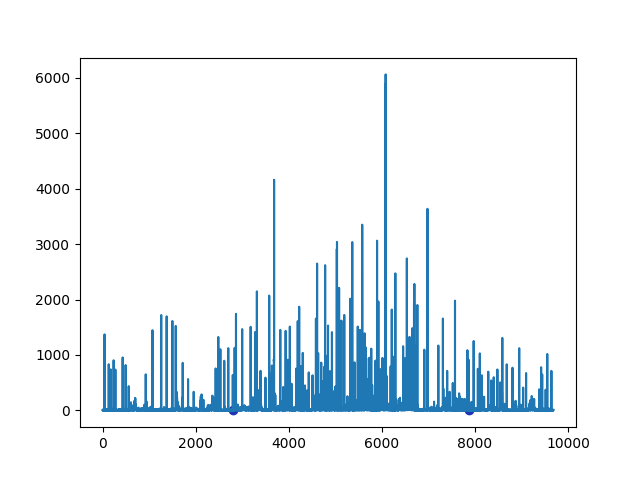
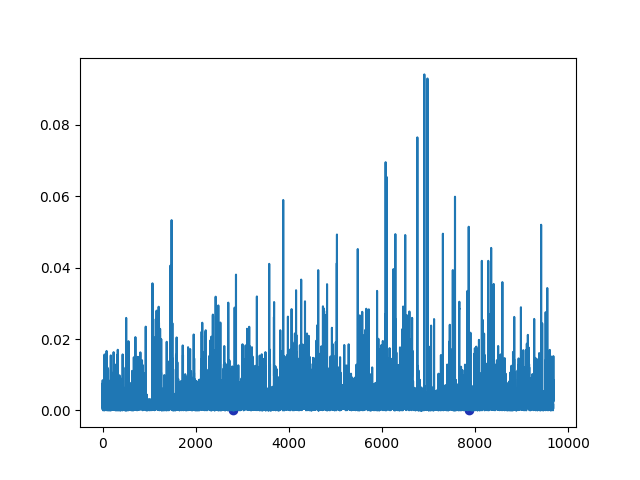
^^

diff --git a/look_up_all_f.py b/look_up_all_f.py
@@ -1,0 +1,103 @@
+import cv2
+import numpy as np
+import matplotlib.pyplot as plt
+from skimage.metrics import peak_signal_noise_ratio, structural_similarity
+
+
+def get_segmentation(diff_features, index, thres):
+    results = []
+    for i in range(len(diff_features)):
+        if diff_features[i, index] > thres:
+            results.append(i + 1)
+    results = np.array(results)
+    return results
+
+
+def merge_small_seg(segments, thres=15):
+    new = []
+    i, j = 0, 0
+    while i < len(segments):
+        f = segments[i][0]
+        s = segments[i][1]
+        if s - f < thres:
+            if i == 0:
+                s = segments[i + 1][1]
+                i += 1
+            elif i == len(segments) - 1:
+                new[j - 1][1] = segments[i][1]
+            else:
+                new[j - 1][1] = segments[i + 1][1]
+                i += 1
+        else:
+            new.append([f, s])
+            j += 1
+        i += 1
+    return new
+
+
+def merge_gap_between_seg(segments, thres=15):
+    i, j = 0, 0
+    while i < len(segments) - 1:
+        f = segments[i][1]
+        s = segments[i + 1][0]
+        if s - f < thres:
+            segments[i][1] = segments[i + 1][1]
+            segments = np.delete(segments, i + 1, 0)
+            i -= 1
+        i += 1
+    return segments
+
+
+gt = {"test_5": [2800, 7870], "test_6": [2776, 8320], "Video_1": [939, 5438]}
+video_name = "test_6"
+with open("features.npy", "rb") as f:
+    features = np.load(f, allow_pickle=True)
+
+total_imgs = len(features)
+print(features.shape)
+diff_features = ((features[: total_imgs - 1, :] - features[1:, :]) ** 2) ** 0.5
+total_diff_features = len(diff_features)
+
+
+# diff
+print(diff_features.shape)
+total_diff_features = len(diff_features)
+for i in range(len(diff_features[0])):
+    upper = total_diff_features - 1
+    x = np.arange(0, upper, upper / total_diff_features)
+    plt.plot(x, diff_features[:, i])
+    plt.scatter(gt[video_name][0], 0, c="#1f33b4")
+    plt.scatter(gt[video_name][1], 0, c="#1f33b4")
+    plt.savefig(f"features/{video_name}_{i}_diff.png")
+    plt.clf()
+
+# origin
+print(features.shape)
+for i in range(len(features[0])):
+    x = np.arange(total_imgs)
+    plt.plot(x, features[:, i])
+    plt.scatter(gt[video_name][0], 0, c="#1f33b4")
+    plt.scatter(gt[video_name][1], 0, c="#1f33b4")
+    plt.savefig(f"features/{video_name}_{i}.png")
+    plt.clf()
+
+
+new = get_segmentation(diff_features, 0, 45)
+print(new)
+assert len(new) % 2 == 0
+new = new.reshape((len(new) // 2, 2))
+new = merge_small_seg(new)
+new = merge_gap_between_seg(new)
+print(new)
+
+upper = total_diff_features - 1
+x = np.arange(upper)
+y = np.zeros(total_diff_features - 1)
+for i in range(len(new)):
+    y[new[i][0] : new[i][1]] = 50
+
+plt.plot(x, y)
+plt.scatter(gt[video_name][0], 0, c="#1f33b4")
+plt.scatter(gt[video_name][1], 0, c="#1f33b4")
+plt.savefig(f"features/{video_name}_res.png")
+plt.clf()

diff --git a/extract_features.py b/extract_features.py
@@ -1,0 +1,91 @@
+import cv2
+import torch
+import numpy as np
+import matplotlib.pyplot as plt
+from skimage.metrics import peak_signal_noise_ratio, structural_similarity
+
+from torch import nn
+from torchvision.utils import save_image
+
+
+def cal_mean_std(img):
+    mean, std = cv2.meanStdDev(img)
+    std = np.mean(std)
+    mean = np.mean(mean)
+    return mean, std
+
+
+def cal_high_freq(img):
+    assert len(img.shape) == 2 "Expect gray scale image"
+    h, w = img.shape
+    tensor_img = torch.Tensor(img)
+    tensor_img = tensor_img.view(1, 1, h, w)
+    tensor_max_img = max_pool(tensor_img)
+    tensor_avg_img = avg_pool(tensor_img)
+    diff = abs(tensor_avg_img - tensor_max_img)
+    diff = (diff - torch.min(diff)) / torch.max(diff)
+    max_avg_diff_img = diff.numpy()
+    return max_avg_diff_img
+
+
+def normalized_image(img):
+    for i in range(3):
+        img = (img - normalized_mean[i]) / normalized_std[i]
+    return img
+
+
+total = {"test_5": 9693, "test_6": 10974, "Video_1": 10250}
+
+normalized_std = np.array([0.229, 0.224, 0.225])
+normalized_mean = np.array([0.485, 0.456, 0.406])
+gamma = 1.5
+max_pool = nn.MaxPool2d((2, 2))
+avg_pool = nn.AvgPool2d((2, 2))
+
+count = 0
+features = []
+video_name = "test_6"
+cap = cv2.VideoCapture(f"videos/{video_name}.avi")
+while True:
+    res, img = cap.read()
+    if not res:
+        break
+
+    gray_img = cv2.cvtColor(img, cv2.COLOR_BGR2GRAY)
+
+    blur_img = cv2.GaussianBlur(img, (3, 3), 0)
+    gray_blur_img = cv2.GaussianBlur(gray_img, (3, 3), 0)
+
+    gray_mvg_img = cal_high_freq(gray_img)
+    gray_blur_mvg_img = cal_high_freq(gray_blur_img)
+
+    b, g, r = cv2.split(img)
+    gamma_img = img ** (1 / gamma)
+    blur_gamma_img = blur_img ** (1 / gamma)
+    gray_blur_gamma_img = gray_blur_img ** (1 / gamma)
+
+    gamma_img = normalized_image(gamma_img)
+    blur_gamma_img = normalized_image(blur_gamma_img)
+    gray_blur_gamma_img = normalized_image(gray_blur_gamma_img)
+
+    low_freq = [blur_img, gray_blur_img]
+    high_freq = [gray_mvg_img, gray_blur_mvg_img]
+    enhancement = [gamma_img, blur_gamma_img, gray_blur_gamma_img]
+
+    feature = []
+    all_in_one = [low_freq, high_freq, enhancement]
+    for domain in all_in_one:
+        for img in domain:
+            mean, std = cal_mean_std(img)
+            feature.append(mean)
+            feature.append(std)
+    features.append(feature)
+    print(f"\r{round((count / total[video_name]) * 100, 2)}", end=" ")
+    count += 1
+
+features = np.array(features, dtype=object)
+print(features.shape)
+with open("features.npy", "wb") as f:
+    np.save(f, features)
+
+cap.release()
